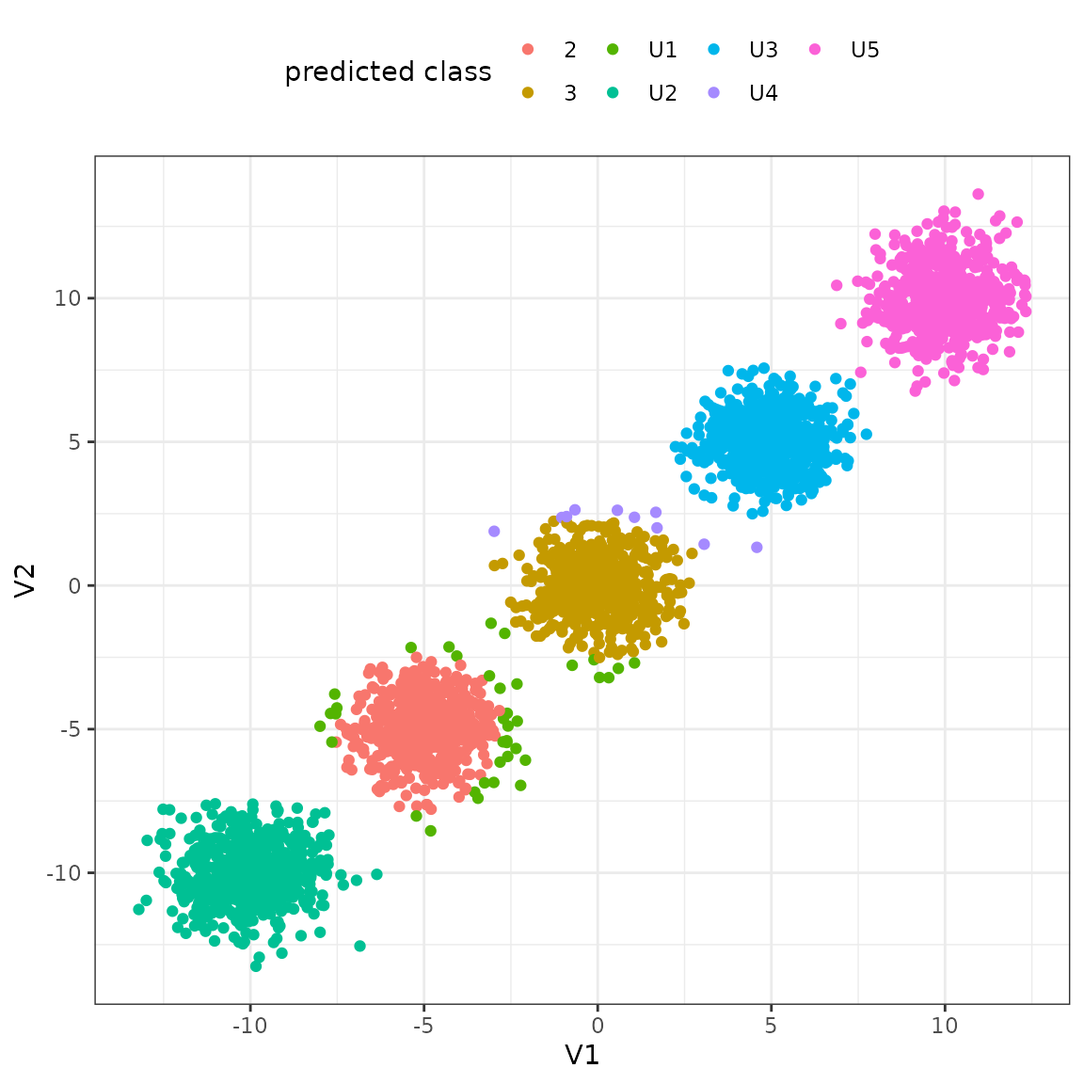
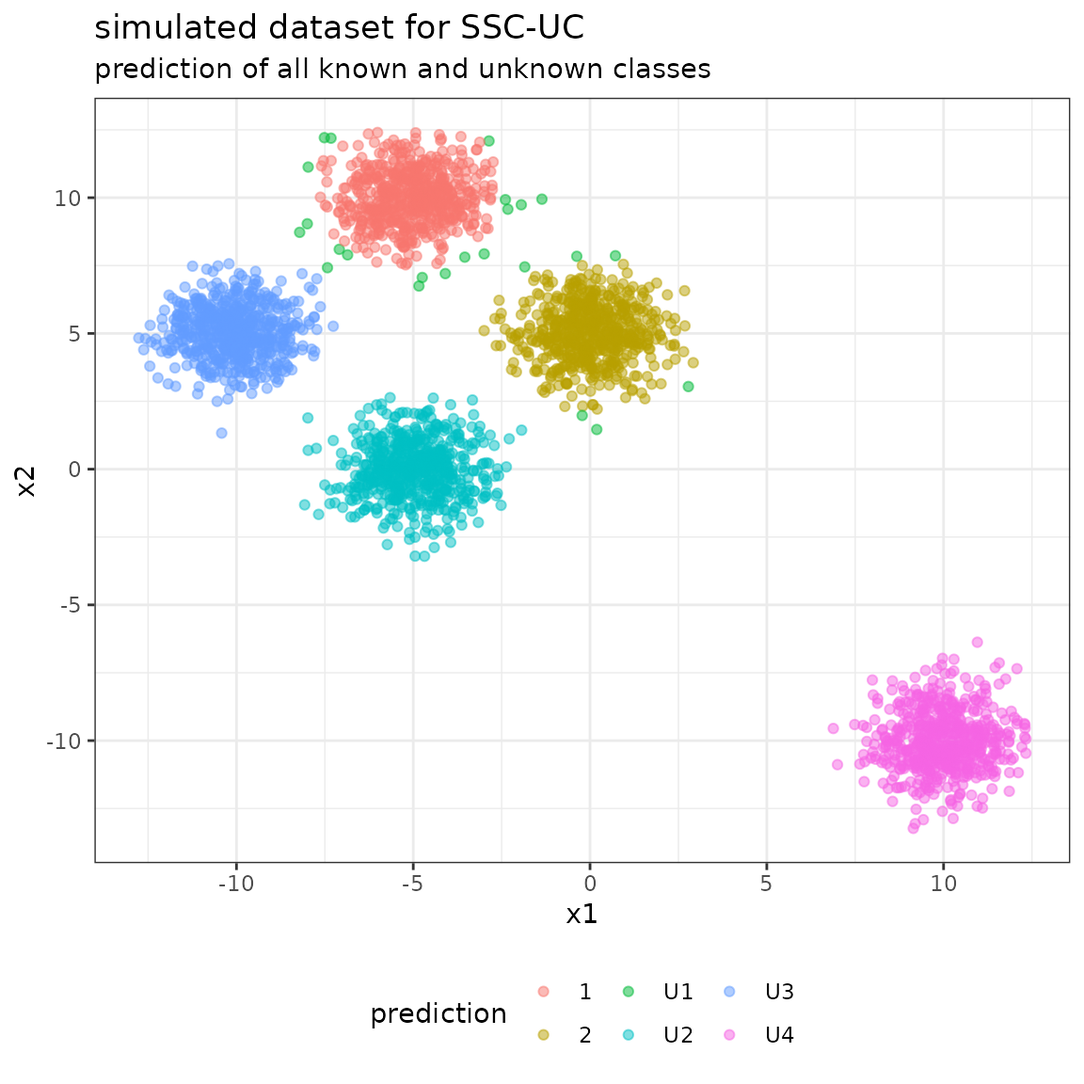
Deploying to gh-pages from @ sschrunner/SSC-UC@03e95f842c9428655e04a2ffd90acc4e1590bb73 🚀

diff --git a/articles/Quickstart.html b/articles/Quickstart.html
@@ -73,6 +73,25 @@
 <div class="section level2">
 <h2 id="prepare-a-sample-dataset-for-naive-bayes">Prepare a sample dataset for Naive Bayes<a class="anchor" aria-label="anchor" href="#prepare-a-sample-dataset-for-naive-bayes"></a>
 </h2>
+<p>In the first step, we simulate a dataset with the following
+specifications:</p>
+<ul>
+<li>a total number of <tt>5</tt> classes, 2 of which are known and 3 are
+unknown, respectively</li>
+<li>
+<tt>n_labeled = 300</tt> labeled samples, evenly distributed over
+the 2 known classes</li>
+<li>
+<tt>n_unlabeled = 3000</tt> unlabeled samples, evenly distributed
+over the 5 classes</li>
+<li>a dimension of <tt>n_feats = 2</tt> features (to facilitate
+representation)</li>
+</ul>
+<p>Each class <span class="math inline">\(i\)</span> is represented by a
+bivariate Gaussian distribution with mean vector <span class="math inline">\(\mu = (\mu_i^{(1)}, \mu_i^{(2)})\)</span> and
+covariance matrix <span class="math display">\[\Sigma =
+\left(\begin{array}{cc}1 &amp; 0 \\ 0 &amp; 1\end{array}\right)\]</span>
+(identical for all classes). The known classes are 1 and 2.</p>
 <div class="sourceCode" id="cb1"><pre class="downlit sourceCode r">
 <code class="sourceCode R"><span><span class="kw"><a href="https://rdrr.io/r/base/library.html" class="external-link">library</a></span><span class="op">(</span><span class="va"><a href="http://mvtnorm.R-forge.R-project.org" class="external-link">mvtnorm</a></span><span class="op">)</span></span>
 <span><span class="fu"><a href="https://rdrr.io/r/base/Random.html" class="external-link">set.seed</a></span><span class="op">(</span><span class="fl">1</span><span class="op">)</span></span>
@@ -83,12 +102,36 @@
 <span><span class="va">n_feats</span> <span class="op">&lt;-</span> <span class="fl">2</span></span>
 <span></span>
 <span><span class="co"># mean values and covariance matrices</span></span>
-<span><span class="va">mu</span> <span class="op">&lt;-</span> <span class="fu"><a href="https://rdrr.io/r/base/c.html" class="external-link">c</a></span><span class="op">(</span><span class="op">-</span><span class="fl">10</span>, <span class="op">-</span><span class="fl">5</span>, <span class="fl">0</span>, <span class="fl">5</span>, <span class="fl">10</span><span class="op">)</span> <span class="op"><a href="https://rdrr.io/r/base/matmult.html" class="external-link">%*%</a></span> <span class="fu"><a href="https://rdrr.io/r/base/t.html" class="external-link">t</a></span><span class="op">(</span><span class="fu"><a href="https://rdrr.io/r/base/rep.html" class="external-link">rep</a></span><span class="op">(</span><span class="fl">1</span>, <span class="va">n_feats</span><span class="op">)</span><span class="op">)</span></span>
+<span><span class="va">mu</span> <span class="op">&lt;-</span> <span class="fu"><a href="https://rdrr.io/r/base/cbind.html" class="external-link">rbind</a></span><span class="op">(</span></span>
+<span>  <span class="fu"><a href="https://rdrr.io/r/base/c.html" class="external-link">c</a></span><span class="op">(</span><span class="op">-</span><span class="fl">5</span>, <span class="fl">10</span><span class="op">)</span>,</span>
+<span>  <span class="fu"><a href="https://rdrr.io/r/base/c.html" class="external-link">c</a></span><span class="op">(</span><span class="fl">0</span>, <span class="fl">5</span><span class="op">)</span>,</span>
+<span>  <span class="fu"><a href="https://rdrr.io/r/base/c.html" class="external-link">c</a></span><span class="op">(</span><span class="op">-</span><span class="fl">5</span>, <span class="fl">0</span><span class="op">)</span>,</span>
+<span>  <span class="fu"><a href="https://rdrr.io/r/base/c.html" class="external-link">c</a></span><span class="op">(</span><span class="op">-</span><span class="fl">10</span>,<span class="fl">5</span><span class="op">)</span>,</span>
+<span>  <span class="fu"><a href="https://rdrr.io/r/base/c.html" class="external-link">c</a></span><span class="op">(</span><span class="fl">10</span>,<span class="op">-</span><span class="fl">10</span><span class="op">)</span></span>
+<span><span class="op">)</span></span>
 <span><span class="fu"><a href="https://rdrr.io/r/base/colnames.html" class="external-link">rownames</a></span><span class="op">(</span><span class="va">mu</span><span class="op">)</span> <span class="op">&lt;-</span> <span class="fl">1</span><span class="op">:</span><span class="fl">5</span></span>
-<span><span class="va">sigma</span> <span class="op">&lt;-</span> <span class="fu"><a href="https://rdrr.io/r/base/diag.html" class="external-link">diag</a></span><span class="op">(</span><span class="fu"><a href="https://rdrr.io/r/base/rep.html" class="external-link">rep</a></span><span class="op">(</span><span class="fl">1</span>,<span class="va">n_feats</span><span class="op">)</span><span class="op">)</span></span></code></pre></div>
+<span><span class="va">sigma</span> <span class="op">&lt;-</span> <span class="fu"><a href="https://rdrr.io/r/base/diag.html" class="external-link">diag</a></span><span class="op">(</span><span class="fu"><a href="https://rdrr.io/r/base/rep.html" class="external-link">rep</a></span><span class="op">(</span><span class="fl">1</span>,<span class="va">n_feats</span><span class="op">)</span><span class="op">)</span></span>
+<span></span>
+<span><span class="fu"><a href="https://rdrr.io/r/base/print.html" class="external-link">print</a></span><span class="op">(</span><span class="va">mu</span><span class="op">)</span></span>
+<span><span class="co">#&gt;   [,1] [,2]</span></span>
+<span><span class="co">#&gt; 1   -5   10</span></span>
+<span><span class="co">#&gt; 2    0    5</span></span>
+<span><span class="co">#&gt; 3   -5    0</span></span>
+<span><span class="co">#&gt; 4  -10    5</span></span>
+<span><span class="co">#&gt; 5   10  -10</span></span>
+<span><span class="fu"><a href="https://rdrr.io/r/base/print.html" class="external-link">print</a></span><span class="op">(</span><span class="va">sigma</span><span class="op">)</span></span>
+<span><span class="co">#&gt;      [,1] [,2]</span></span>
+<span><span class="co">#&gt; [1,]    1    0</span></span>
+<span><span class="co">#&gt; [2,]    0    1</span></span></code></pre></div>
+<p>Given the data specifications, we simulate from the bivariate
+Gaussian distribution to generate the dataset given the class vector. We
+discriminate between the true class vector <tt>y_true</tt> containing
+the labels <tt>1-5</tt> of all samples, and the model input class vector
+<tt>y</tt> containing a true label only for the labeled data, and
+<tt>NA</tt>, otherwise.</p>
 <div class="sourceCode" id="cb2"><pre class="downlit sourceCode r">
 <code class="sourceCode R"><span><span class="co"># specify number of labeles / unlabeled samples per class</span></span>
-<span><span class="va">labeled_classes</span> <span class="op">&lt;-</span> <span class="fu"><a href="https://rdrr.io/r/base/rep.html" class="external-link">rep</a></span><span class="op">(</span><span class="fu"><a href="https://rdrr.io/r/base/c.html" class="external-link">c</a></span><span class="op">(</span><span class="fl">2</span>, <span class="fl">3</span><span class="op">)</span>, each <span class="op">=</span> <span class="va">n_labeled</span> <span class="op">/</span> <span class="fl">2</span><span class="op">)</span></span>
+<span><span class="va">labeled_classes</span> <span class="op">&lt;-</span> <span class="fu"><a href="https://rdrr.io/r/base/rep.html" class="external-link">rep</a></span><span class="op">(</span><span class="fl">1</span><span class="op">:</span><span class="fl">2</span>, each <span class="op">=</span> <span class="va">n_labeled</span> <span class="op">/</span> <span class="fl">2</span><span class="op">)</span></span>
 <span><span class="va">unlabeled_classes</span> <span class="op">&lt;-</span> <span class="fu"><a href="https://rdrr.io/r/base/rep.html" class="external-link">rep</a></span><span class="op">(</span><span class="fl">1</span><span class="op">:</span><span class="fl">5</span>, each <span class="op">=</span> <span class="va">n_unlabeled</span> <span class="op">/</span> <span class="fl">5</span><span class="op">)</span></span>
 <span><span class="va">num_sample</span> <span class="op">&lt;-</span> <span class="fu"><a href="https://rdrr.io/r/base/c.html" class="external-link">c</a></span><span class="op">(</span><span class="fu"><a href="https://rdrr.io/r/base/table.html" class="external-link">table</a></span><span class="op">(</span><span class="va">labeled_classes</span><span class="op">)</span>, <span class="fu"><a href="https://rdrr.io/r/base/table.html" class="external-link">table</a></span><span class="op">(</span><span class="va">unlabeled_classes</span><span class="op">)</span><span class="op">)</span></span>
 <span></span>
@@ -97,43 +140,55 @@
 <span><span class="kw">for</span><span class="op">(</span><span class="va">i</span> <span class="kw">in</span> <span class="fl">1</span><span class="op">:</span><span class="fu"><a href="https://rdrr.io/r/base/length.html" class="external-link">length</a></span><span class="op">(</span><span class="va">num_sample</span><span class="op">)</span><span class="op">)</span><span class="op">{</span></span>
 <span>  <span class="va">X</span> <span class="op">&lt;-</span> <span class="fu"><a href="https://rdrr.io/r/base/cbind.html" class="external-link">rbind</a></span><span class="op">(</span><span class="va">X</span>, <span class="fu"><a href="https://rdrr.io/pkg/mvtnorm/man/Mvnorm.html" class="external-link">rmvnorm</a></span><span class="op">(</span><span class="va">num_sample</span><span class="op">[</span><span class="va">i</span><span class="op">]</span>, <span class="va">mu</span><span class="op">[</span><span class="fu"><a href="https://rdrr.io/r/base/names.html" class="external-link">names</a></span><span class="op">(</span><span class="va">num_sample</span><span class="op">)</span><span class="op">[</span><span class="va">i</span><span class="op">]</span>,<span class="op">]</span>, <span class="va">sigma</span><span class="op">)</span><span class="op">)</span></span>
 <span><span class="op">}</span></span>
-<span><span class="va">y</span> <span class="op">&lt;-</span> <span class="fu"><a href="https://rdrr.io/r/base/rep.html" class="external-link">rep</a></span><span class="op">(</span><span class="fu"><a href="https://rdrr.io/r/base/c.html" class="external-link">c</a></span><span class="op">(</span><span class="fl">2</span>, <span class="fl">3</span>, <span class="cn">NA</span><span class="op">)</span>, <span class="fu"><a href="https://rdrr.io/r/base/c.html" class="external-link">c</a></span><span class="op">(</span><span class="fu"><a href="https://rdrr.io/r/base/table.html" class="external-link">table</a></span><span class="op">(</span><span class="va">labeled_classes</span><span class="op">)</span>, <span class="fu"><a href="https://rdrr.io/r/base/length.html" class="external-link">length</a></span><span class="op">(</span><span class="va">unlabeled_classes</span><span class="op">)</span><span class="op">)</span><span class="op">)</span></span>
+<span><span class="va">y</span> <span class="op">&lt;-</span> <span class="fu"><a href="https://rdrr.io/r/base/rep.html" class="external-link">rep</a></span><span class="op">(</span><span class="fu"><a href="https://rdrr.io/r/base/c.html" class="external-link">c</a></span><span class="op">(</span><span class="fl">1</span><span class="op">:</span><span class="fl">2</span>, <span class="cn">NA</span><span class="op">)</span>, <span class="fu"><a href="https://rdrr.io/r/base/c.html" class="external-link">c</a></span><span class="op">(</span><span class="fu"><a href="https://rdrr.io/r/base/table.html" class="external-link">table</a></span><span class="op">(</span><span class="va">labeled_classes</span><span class="op">)</span>, <span class="fu"><a href="https://rdrr.io/r/base/length.html" class="external-link">length</a></span><span class="op">(</span><span class="va">unlabeled_classes</span><span class="op">)</span><span class="op">)</span><span class="op">)</span></span>
 <span><span class="va">ytrue</span> <span class="op">&lt;-</span> <span class="fu"><a href="https://rdrr.io/r/base/rep.html" class="external-link">rep</a></span><span class="op">(</span><span class="fu"><a href="https://rdrr.io/r/base/names.html" class="external-link">names</a></span><span class="op">(</span><span class="va">num_sample</span><span class="op">)</span>, <span class="va">num_sample</span><span class="op">)</span></span>
+<span><span class="fu"><a href="https://rdrr.io/r/base/colnames.html" class="external-link">colnames</a></span><span class="op">(</span><span class="va">X</span><span class="op">)</span> <span class="op">&lt;-</span> <span class="fu"><a href="https://rdrr.io/r/base/paste.html" class="external-link">paste0</a></span><span class="op">(</span><span class="st">"x"</span>, <span class="fl">1</span><span class="op">:</span><span class="fl">2</span><span class="op">)</span></span>
 <span></span>
-<span><span class="fu"><a href="https://rdrr.io/r/utils/head.html" class="external-link">head</a></span><span class="op">(</span><span class="va">X</span><span class="op">)</span></span>
-<span><span class="co">#&gt;           [,1]      [,2]</span></span>
-<span><span class="co">#&gt; [1,] -5.626454 -4.816357</span></span>
-<span><span class="co">#&gt; [2,] -5.835629 -3.404719</span></span>
-<span><span class="co">#&gt; [3,] -4.670492 -5.820468</span></span>
-<span><span class="co">#&gt; [4,] -4.512571 -4.261675</span></span>
-<span><span class="co">#&gt; [5,] -4.424219 -5.305388</span></span>
-<span><span class="co">#&gt; [6,] -3.488219 -4.610157</span></span>
-<span><span class="fu"><a href="https://rdrr.io/r/utils/head.html" class="external-link">head</a></span><span class="op">(</span><span class="va">y</span><span class="op">)</span></span>
-<span><span class="co">#&gt; [1] 2 2 2 2 2 2</span></span>
-<span></span>
+<span><span class="co"># summaries of the model input class vector y, and the true class vector ytrue</span></span>
 <span><span class="fu"><a href="https://rdrr.io/r/base/summary.html" class="external-link">summary</a></span><span class="op">(</span><span class="fu"><a href="https://rdrr.io/r/base/factor.html" class="external-link">as.factor</a></span><span class="op">(</span><span class="va">y</span><span class="op">)</span><span class="op">)</span></span>
-<span><span class="co">#&gt;    2    3 NA's </span></span>
+<span><span class="co">#&gt;    1    2 NA's </span></span>
 <span><span class="co">#&gt;  150  150 3000</span></span>
 <span><span class="fu"><a href="https://rdrr.io/r/base/summary.html" class="external-link">summary</a></span><span class="op">(</span><span class="fu"><a href="https://rdrr.io/r/base/factor.html" class="external-link">as.factor</a></span><span class="op">(</span><span class="va">ytrue</span><span class="op">)</span><span class="op">)</span></span>
 <span><span class="co">#&gt;   1   2   3   4   5 </span></span>
-<span><span class="co">#&gt; 600 750 750 600 600</span></span></code></pre></div>
+<span><span class="co">#&gt; 750 750 600 600 600</span></span></code></pre></div>
+<p>Using the model input class vector <tt>y</tt> and the simulated
+feature matrix <tt>X</tt>, we generate the input dataset and the formula
+for the model.</p>
+<div class="sourceCode" id="cb3"><pre class="downlit sourceCode r">
+<code class="sourceCode R"><span><span class="co"># input dataset for the model</span></span>
+<span><span class="va">data</span> <span class="op">&lt;-</span> <span class="fu"><a href="https://rdrr.io/r/base/as.data.frame.html" class="external-link">as.data.frame</a></span><span class="op">(</span><span class="fu"><a href="https://rdrr.io/r/base/cbind.html" class="external-link">cbind</a></span><span class="op">(</span><span class="va">X</span>, <span class="va">y</span><span class="op">)</span><span class="op">)</span></span>
+<span></span>
+<span><span class="co"># model formula</span></span>
+<span><span class="va">formula</span> <span class="op">&lt;-</span> <span class="va">y</span> <span class="op">~</span> <span class="va">x1</span> <span class="op">+</span> <span class="va">x2</span> <span class="op">-</span> <span class="fl">1</span></span>
+<span></span>
+<span><span class="co"># simulated data</span></span>
+<span><span class="fu"><a href="https://rdrr.io/r/utils/head.html" class="external-link">head</a></span><span class="op">(</span><span class="va">data</span><span class="op">)</span></span>
+<span><span class="co">#&gt;          x1        x2 y</span></span>
+<span><span class="co">#&gt; 1 -5.626454 10.183643 1</span></span>
+<span><span class="co">#&gt; 2 -5.835629 11.595281 1</span></span>
+<span><span class="co">#&gt; 3 -4.670492  9.179532 1</span></span>
+<span><span class="co">#&gt; 4 -4.512571 10.738325 1</span></span>
+<span><span class="co">#&gt; 5 -4.424219  9.694612 1</span></span>
+<span><span class="co">#&gt; 6 -3.488219 10.389843 1</span></span></code></pre></div>
+<p>The simulated dataset is given by the following scatterplot:</p>
+<p><img src="Quickstart_files/figure-html/plot0-1.png" width="576" style="display: block; margin: auto;"></p>
 </div>
 <div class="section level2">
 <h2 id="train-ssc-uc-model">Train SSC-UC model<a class="anchor" aria-label="anchor" href="#train-ssc-uc-model"></a>
 </h2>
-<div class="sourceCode" id="cb3"><pre class="downlit sourceCode r">
+<p>The SSC-UC model is called via <tt>SSCUC</tt> and returns a
+<tt>BayesClassifier</tt> object with known and unknown classes. In this
+case, a naive Bayes classifier is used, specified by the argument
+<tt>naive=TRUE</tt>.</p>
+<div class="sourceCode" id="cb4"><pre class="downlit sourceCode r">
 <code class="sourceCode R"><span><span class="kw"><a href="https://rdrr.io/r/base/library.html" class="external-link">library</a></span><span class="op">(</span><span class="va"><a href="https://dx.doi.org/10.1145/3341105.3373890" class="external-link">SSCUC</a></span><span class="op">)</span></span>
-<span></span>
-<span><span class="co"># specify dataset and formula</span></span>
-<span><span class="va">data</span> <span class="op">&lt;-</span> <span class="fu"><a href="https://rdrr.io/r/base/as.data.frame.html" class="external-link">as.data.frame</a></span><span class="op">(</span><span class="fu"><a href="https://rdrr.io/r/base/cbind.html" class="external-link">cbind</a></span><span class="op">(</span><span class="va">X</span>, <span class="va">y</span><span class="op">)</span><span class="op">)</span></span>
-<span><span class="va">formula</span> <span class="op">&lt;-</span> <span class="va">y</span> <span class="op">~</span> <span class="va">V1</span> <span class="op">+</span> <span class="va">V2</span> <span class="op">-</span> <span class="fl">1</span></span>
 <span></span>
 <span><span class="co"># train model</span></span>
 <span><span class="va">model</span> <span class="op">&lt;-</span> <span class="fu"><a href="../reference/SSC.html">SSC</a></span><span class="op">(</span><span class="va">formula</span>, <span class="va">data</span>, naive <span class="op">=</span> <span class="cn">TRUE</span><span class="op">)</span></span>
-<span><span class="co">#&gt; [1] "5 new classes found"</span></span>
+<span><span class="co">#&gt; [1] "4 new classes found"</span></span>
 <span><span class="fu"><a href="https://rdrr.io/r/base/summary.html" class="external-link">summary</a></span><span class="op">(</span><span class="va">model</span><span class="op">)</span></span>
-<span><span class="co">#&gt; BayesClassifier model with  7  classes </span></span>
-<span><span class="co">#&gt; y ~ V1 + V2 - 1</span></span>
+<span><span class="co">#&gt; BayesClassifier model with  6  classes </span></span>
+<span><span class="co">#&gt; y ~ x1 + x2 - 1</span></span>
 <span><span class="co">#&gt; Model parameters</span></span></code></pre></div>
 <table class="table">
 <thead><tr class="header">
@@ -144,45 +199,39 @@
 </tr></thead>
 <tbody>
 <tr class="odd">
-<td align="left">2</td>
-<td align="left">-4.97,-4.97</td>
+<td align="left">1</td>
+<td align="left">-4.97,10.03</td>
 <td align="left">0.87,0,0,1.01</td>
 <td align="right">0.07</td>
 </tr>
 <tr class="even">
-<td align="left">3</td>
-<td align="left">-0.08,0.06</td>
+<td align="left">2</td>
+<td align="left">-0.08,5.06</td>
 <td align="left">1.24,0,0,0.96</td>
 <td align="right">0.07</td>
 </tr>
 <tr class="odd">
 <td align="left">U1</td>
-<td align="left">-3.25,-4.36</td>
-<td align="left">8.44,0,0,5.29</td>
+<td align="left">-3.1,7.22</td>
+<td align="left">13.46,0,0,12.99</td>
 <td align="right">0.03</td>
 </tr>
 <tr class="even">
 <td align="left">U2</td>
-<td align="left">-10.05,-10.02</td>
-<td align="left">1.19,0,0,1.04</td>
+<td align="left">-4.96,-0.02</td>
+<td align="left">1.04,0,0,1.07</td>
 <td align="right">0.28</td>
 </tr>
 <tr class="odd">
 <td align="left">U3</td>
-<td align="left">4.92,5.05</td>
+<td align="left">-10.08,5.05</td>
 <td align="left">1,0,0,0.89</td>
 <td align="right">0.28</td>
 </tr>
 <tr class="even">
 <td align="left">U4</td>
-<td align="left">0.71,2.08</td>
-<td align="left">4.7,0,0,0.29</td>
-<td align="right">0.01</td>
-</tr>
-<tr class="odd">
-<td align="left">U5</td>
-<td align="left">9.98,9.98</td>
-<td align="left">0.97,0,0,1.19</td>
+<td align="left">9.98,-10.02</td>
+<td align="left">0.97,0,0,1.18</td>
 <td align="right">0.28</td>
 </tr>
 </tbody>
@@ -191,15 +240,25 @@
 <div class="section level2">
 <h2 id="predict-and-evaluate-unlabeled-data-using-ssc-uc-model">Predict and evaluate unlabeled data using SSC-UC model<a class="anchor" aria-label="anchor" href="#predict-and-evaluate-unlabeled-data-using-ssc-uc-model"></a>
 </h2>
-<div class="sourceCode" id="cb4"><pre class="downlit sourceCode r">
+<p>Class labels for the unlabeled data in the dataset are obtained using
+the <tt>predict</tt> function with argument <tt>type=“class”</tt>.</p>
+<div class="sourceCode" id="cb5"><pre class="downlit sourceCode r">
 <code class="sourceCode R"><span><span class="co"># predict on unlabeled data</span></span>
 <span><span class="va">pred</span> <span class="op">&lt;-</span> <span class="fu"><a href="https://rdrr.io/r/stats/predict.html" class="external-link">predict</a></span><span class="op">(</span><span class="va">model</span>, newdata <span class="op">=</span> <span class="fu"><a href="https://rdrr.io/r/base/subset.html" class="external-link">subset</a></span><span class="op">(</span><span class="va">data</span>, <span class="fu"><a href="https://rdrr.io/r/base/NA.html" class="external-link">is.na</a></span><span class="op">(</span><span class="va">y</span><span class="op">)</span><span class="op">)</span>, type <span class="op">=</span> <span class="st">"class"</span><span class="op">)</span></span></code></pre></div>
 <div class="section level3">
-<h3 id="evaluate-in-full-confusion-matrix-multiple-new-classes">Evaluate in full confusion matrix (multiple new classes)<a class="anchor" aria-label="anchor" href="#evaluate-in-full-confusion-matrix-multiple-new-classes"></a>
+<h3 id="evaluate-in-full-confusion-matrix-multiple-unknown-classes">Evaluate in full confusion matrix (multiple unknown classes)<a class="anchor" aria-label="anchor" href="#evaluate-in-full-confusion-matrix-multiple-unknown-classes"></a>
 </h3>
-<div class="sourceCode" id="cb5"><pre class="downlit sourceCode r">
+<p>The full confusion matrix contains all the classes modeled by the
+<tt>BayesClassifier</tt>:</p>
+<ul>
+<li>the class labels <tt>1-5</tt> from the data specification as
+reference labels (not that, however, only classes 1 and 2 are known to
+the model a-priori),</li>
+<li>the class labels for known classes (<tt>1-2</tt>) and unknown
+classes (<tt>U1-U4</tt>) as predicted labels.</li>
+</ul>
+<div class="sourceCode" id="cb6"><pre class="downlit sourceCode r">
 <code class="sourceCode R"><span><span class="kw"><a href="https://rdrr.io/r/base/library.html" class="external-link">library</a></span><span class="op">(</span><span class="va"><a href="https://github.com/topepo/caret/" class="external-link">caret</a></span><span class="op">)</span></span>
-<span><span class="co">#&gt; Loading required package: ggplot2</span></span>
 <span><span class="co">#&gt; Loading required package: lattice</span></span>
 <span><span class="kw"><a href="https://rdrr.io/r/base/library.html" class="external-link">library</a></span><span class="op">(</span><span class="va"><a href="https://yihui.org/knitr/" class="external-link">knitr</a></span><span class="op">)</span></span>
 <span></span>
@@ -221,34 +280,34 @@
 </tr></thead>
 <tbody>
 <tr class="odd">
-<td align="left">2</td>
+<td align="left">1</td>
+<td align="right">582</td>
 <td align="right">0</td>
-<td align="right">570</td>
 <td align="right">0</td>
 <td align="right">0</td>
 <td align="right">0</td>
 </tr>
 <tr class="even">
-<td align="left">3</td>
+<td align="left">2</td>
 <td align="right">0</td>
+<td align="right">595</td>
 <td align="right">0</td>
-<td align="right">583</td>
 <td align="right">0</td>
 <td align="right">0</td>
 </tr>
 <tr class="odd">
 <td align="left">U1</td>
+<td align="right">18</td>
+<td align="right">5</td>
 <td align="right">0</td>
-<td align="right">30</td>
-<td align="right">8</td>
-<td align="right">0</td>
+<td align="right">1</td>
 <td align="right">0</td>
 </tr>
 <tr class="even">
 <td align="left">U2</td>
+<td align="right">0</td>
+<td align="right">0</td>
 <td align="right">600</td>
-<td align="right">0</td>
-<td align="right">0</td>
 <td align="right">0</td>
 <td align="right">0</td>
 </tr>
@@ -257,42 +316,42 @@
 <td align="right">0</td>
 <td align="right">0</td>
 <td align="right">0</td>
-<td align="right">598</td>
+<td align="right">599</td>
 <td align="right">0</td>
 </tr>
 <tr class="even">
 <td align="left">U4</td>
 <td align="right">0</td>
 <td align="right">0</td>
-<td align="right">9</td>
-<td align="right">1</td>
-<td align="right">0</td>
-</tr>
-<tr class="odd">
-<td align="left">U5</td>
 <td align="right">0</td>
 <td align="right">0</td>
-<td align="right">0</td>
-<td align="right">1</td>
 <td align="right">600</td>
 </tr>
 </tbody>
 </table>
-<div class="sourceCode" id="cb6"><pre class="downlit sourceCode r">
+<p>The following plot shows the unlabeled data with their predicted
+class labels:</p>
+<div class="sourceCode" id="cb7"><pre class="downlit sourceCode r">
 <code class="sourceCode R"><span><span class="kw"><a href="https://rdrr.io/r/base/library.html" class="external-link">library</a></span><span class="op">(</span><span class="va"><a href="https://ggplot2.tidyverse.org" class="external-link">ggplot2</a></span><span class="op">)</span></span>
 <span><span class="fu"><a href="https://ggplot2.tidyverse.org/reference/ggplot.html" class="external-link">ggplot</a></span><span class="op">(</span><span class="fu"><a href="https://rdrr.io/r/base/cbind.html" class="external-link">cbind</a></span><span class="op">(</span><span class="fu"><a href="https://rdrr.io/r/base/subset.html" class="external-link">subset</a></span><span class="op">(</span><span class="va">data</span>, <span class="fu"><a href="https://rdrr.io/r/base/NA.html" class="external-link">is.na</a></span><span class="op">(</span><span class="va">y</span><span class="op">)</span><span class="op">)</span>, pred <span class="op">=</span> <span class="va">pred</span><span class="op">)</span>, </span>
-<span>       <span class="fu"><a href="https://ggplot2.tidyverse.org/reference/aes.html" class="external-link">aes</a></span><span class="op">(</span>x <span class="op">=</span> <span class="va">V1</span>, y <span class="op">=</span> <span class="va">V2</span>, color <span class="op">=</span> <span class="fu"><a href="https://rdrr.io/r/base/factor.html" class="external-link">as.factor</a></span><span class="op">(</span><span class="va">pred</span><span class="op">)</span><span class="op">)</span><span class="op">)</span> <span class="op">+</span> </span>
-<span>  <span class="fu"><a href="https://ggplot2.tidyverse.org/reference/geom_point.html" class="external-link">geom_point</a></span><span class="op">(</span><span class="op">)</span> <span class="op">+</span> </span>
+<span>       <span class="fu"><a href="https://ggplot2.tidyverse.org/reference/aes.html" class="external-link">aes</a></span><span class="op">(</span>x <span class="op">=</span> <span class="va">x1</span>, y <span class="op">=</span> <span class="va">x2</span>, color <span class="op">=</span> <span class="fu"><a href="https://rdrr.io/r/base/factor.html" class="external-link">as.factor</a></span><span class="op">(</span><span class="va">pred</span><span class="op">)</span><span class="op">)</span><span class="op">)</span> <span class="op">+</span> </span>
+<span>  <span class="fu"><a href="https://ggplot2.tidyverse.org/reference/geom_point.html" class="external-link">geom_point</a></span><span class="op">(</span>alpha <span class="op">=</span> <span class="fl">0.5</span><span class="op">)</span> <span class="op">+</span> </span>
 <span>  <span class="fu"><a href="https://ggplot2.tidyverse.org/reference/ggtheme.html" class="external-link">theme_bw</a></span><span class="op">(</span><span class="op">)</span> <span class="op">+</span> </span>
-<span>  <span class="fu"><a href="https://ggplot2.tidyverse.org/reference/theme.html" class="external-link">theme</a></span><span class="op">(</span>legend.position <span class="op">=</span> <span class="st">"top"</span><span class="op">)</span> <span class="op">+</span> </span>
-<span>  <span class="fu"><a href="https://ggplot2.tidyverse.org/reference/labs.html" class="external-link">labs</a></span><span class="op">(</span>color <span class="op">=</span> <span class="st">"predicted class"</span><span class="op">)</span></span></code></pre></div>
-<p><img src="Quickstart_files/figure-html/plot1-1.png" width="576"></p>
+<span>  <span class="fu"><a href="https://ggplot2.tidyverse.org/reference/theme.html" class="external-link">theme</a></span><span class="op">(</span>legend.position <span class="op">=</span> <span class="st">"bottom"</span><span class="op">)</span> <span class="op">+</span> </span>
+<span>  <span class="fu"><a href="https://ggplot2.tidyverse.org/reference/labs.html" class="external-link">labs</a></span><span class="op">(</span>color <span class="op">=</span> <span class="st">"prediction"</span>, </span>
+<span>       title <span class="op">=</span> <span class="st">"simulated dataset for SSC-UC"</span>,</span>
+<span>       subtitle <span class="op">=</span> <span class="st">"prediction of all known and unknown classes"</span><span class="op">)</span></span></code></pre></div>
+<p><img src="Quickstart_files/figure-html/plot1-1.png" width="576" style="display: block; margin: auto;"></p>
 </div>
 <div class="section level3">
-<h3 id="evaluate-in-reduced-confusion-matrix-all-new-classes-as-class-u">Evaluate in reduced confusion matrix (all new classes as class
-“U”)<a class="anchor" aria-label="anchor" href="#evaluate-in-reduced-confusion-matrix-all-new-classes-as-class-u"></a>
+<h3 id="evaluate-in-reduced-confusion-matrix-all-unknown-classes-as-class-u">Evaluate in reduced confusion matrix (all unknown classes as class
+“U”)<a class="anchor" aria-label="anchor" href="#evaluate-in-reduced-confusion-matrix-all-unknown-classes-as-class-u"></a>
 </h3>
-<div class="sourceCode" id="cb7"><pre class="downlit sourceCode r">
+<p>As a second evaluation step, we can summarize all “unknown” classes
+detected by SSC-UC into one class “U” (unknown). Thereby, we reduce the
+number of labels in the confusion matrix to <tt>1-2</tt> and
+<tt>U</tt>.</p>
+<div class="sourceCode" id="cb8"><pre class="downlit sourceCode r">
 <code class="sourceCode R"><span><span class="co"># set all new class labels to "U"</span></span>
 <span><span class="va">pred</span><span class="op">[</span><span class="op">!</span><span class="va">pred</span> <span class="op"><a href="https://rdrr.io/r/base/match.html" class="external-link">%in%</a></span> <span class="fu"><a href="https://rdrr.io/r/base/unique.html" class="external-link">unique</a></span><span class="op">(</span><span class="va">ytrue</span><span class="op">)</span><span class="op">]</span> <span class="op">&lt;-</span> <span class="st">"U"</span></span>
 <span></span>
@@ -314,40 +373,44 @@
 </tr></thead>
 <tbody>
 <tr class="odd">
-<td align="left">2</td>
+<td align="left">1</td>
+<td align="right">582</td>
 <td align="right">0</td>
-<td align="right">570</td>
 <td align="right">0</td>
 <td align="right">0</td>
 <td align="right">0</td>
 </tr>
 <tr class="even">
-<td align="left">3</td>
+<td align="left">2</td>
 <td align="right">0</td>
+<td align="right">595</td>
 <td align="right">0</td>
-<td align="right">583</td>
 <td align="right">0</td>
 <td align="right">0</td>
 </tr>
 <tr class="odd">
 <td align="left">U</td>
+<td align="right">18</td>
+<td align="right">5</td>
 <td align="right">600</td>
-<td align="right">30</td>
-<td align="right">17</td>
 <td align="right">600</td>
 <td align="right">600</td>
 </tr>
 </tbody>
 </table>
-<div class="sourceCode" id="cb8"><pre class="downlit sourceCode r">
+<p>The following plot shows the unlabeled data with their predicted
+class labels, when considering all unknown classes as one class.</p>
+<div class="sourceCode" id="cb9"><pre class="downlit sourceCode r">
 <code class="sourceCode R"><span><span class="kw"><a href="https://rdrr.io/r/base/library.html" class="external-link">library</a></span><span class="op">(</span><span class="va"><a href="https://ggplot2.tidyverse.org" class="external-link">ggplot2</a></span><span class="op">)</span></span>
 <span><span class="fu"><a href="https://ggplot2.tidyverse.org/reference/ggplot.html" class="external-link">ggplot</a></span><span class="op">(</span><span class="fu"><a href="https://rdrr.io/r/base/cbind.html" class="external-link">cbind</a></span><span class="op">(</span><span class="fu"><a href="https://rdrr.io/r/base/subset.html" class="external-link">subset</a></span><span class="op">(</span><span class="va">data</span>, <span class="fu"><a href="https://rdrr.io/r/base/NA.html" class="external-link">is.na</a></span><span class="op">(</span><span class="va">y</span><span class="op">)</span><span class="op">)</span>, pred <span class="op">=</span> <span class="va">pred</span><span class="op">)</span>, </span>
-<span>       <span class="fu"><a href="https://ggplot2.tidyverse.org/reference/aes.html" class="external-link">aes</a></span><span class="op">(</span>x <span class="op">=</span> <span class="va">V1</span>, y <span class="op">=</span> <span class="va">V2</span>, color <span class="op">=</span> <span class="fu"><a href="https://rdrr.io/r/base/factor.html" class="external-link">as.factor</a></span><span class="op">(</span><span class="va">pred</span><span class="op">)</span><span class="op">)</span><span class="op">)</span> <span class="op">+</span> </span>
-<span>  <span class="fu"><a href="https://ggplot2.tidyverse.org/reference/geom_point.html" class="external-link">geom_point</a></span><span class="op">(</span><span class="op">)</span> <span class="op">+</span> </span>
+<span>       <span class="fu"><a href="https://ggplot2.tidyverse.org/reference/aes.html" class="external-link">aes</a></span><span class="op">(</span>x <span class="op">=</span> <span class="va">x1</span>, y <span class="op">=</span> <span class="va">x2</span>, color <span class="op">=</span> <span class="fu"><a href="https://rdrr.io/r/base/factor.html" class="external-link">as.factor</a></span><span class="op">(</span><span class="va">pred</span><span class="op">)</span><span class="op">)</span><span class="op">)</span> <span class="op">+</span> </span>
+<span>  <span class="fu"><a href="https://ggplot2.tidyverse.org/reference/geom_point.html" class="external-link">geom_point</a></span><span class="op">(</span>alpha <span class="op">=</span> <span class="fl">0.5</span><span class="op">)</span> <span class="op">+</span></span>
 <span>  <span class="fu"><a href="https://ggplot2.tidyverse.org/reference/ggtheme.html" class="external-link">theme_bw</a></span><span class="op">(</span><span class="op">)</span> <span class="op">+</span> </span>
-<span>  <span class="fu"><a href="https://ggplot2.tidyverse.org/reference/theme.html" class="external-link">theme</a></span><span class="op">(</span>legend.position <span class="op">=</span> <span class="st">"top"</span><span class="op">)</span> <span class="op">+</span> </span>
-<span>  <span class="fu"><a href="https://ggplot2.tidyverse.org/reference/labs.html" class="external-link">labs</a></span><span class="op">(</span>color <span class="op">=</span> <span class="st">"predicted class"</span><span class="op">)</span></span></code></pre></div>
-<p><img src="Quickstart_files/figure-html/plot2-1.png" width="576"></p>
+<span>  <span class="fu"><a href="https://ggplot2.tidyverse.org/reference/theme.html" class="external-link">theme</a></span><span class="op">(</span>legend.position <span class="op">=</span> <span class="st">"bottom"</span><span class="op">)</span> <span class="op">+</span> </span>
+<span>  <span class="fu"><a href="https://ggplot2.tidyverse.org/reference/labs.html" class="external-link">labs</a></span><span class="op">(</span>color <span class="op">=</span> <span class="st">"prediction"</span>, </span>
+<span>       title <span class="op">=</span> <span class="st">"simulated dataset for SSC-UC"</span>,</span>
+<span>       subtitle <span class="op">=</span> <span class="st">"prediction of known versus unknown classes"</span><span class="op">)</span></span></code></pre></div>
+<p><img src="Quickstart_files/figure-html/plot2-1.png" width="576" style="display: block; margin: auto;"></p>
 </div>
 </div>
   </main><aside class="col-md-3"><nav id="toc"><h2>On this page</h2>
